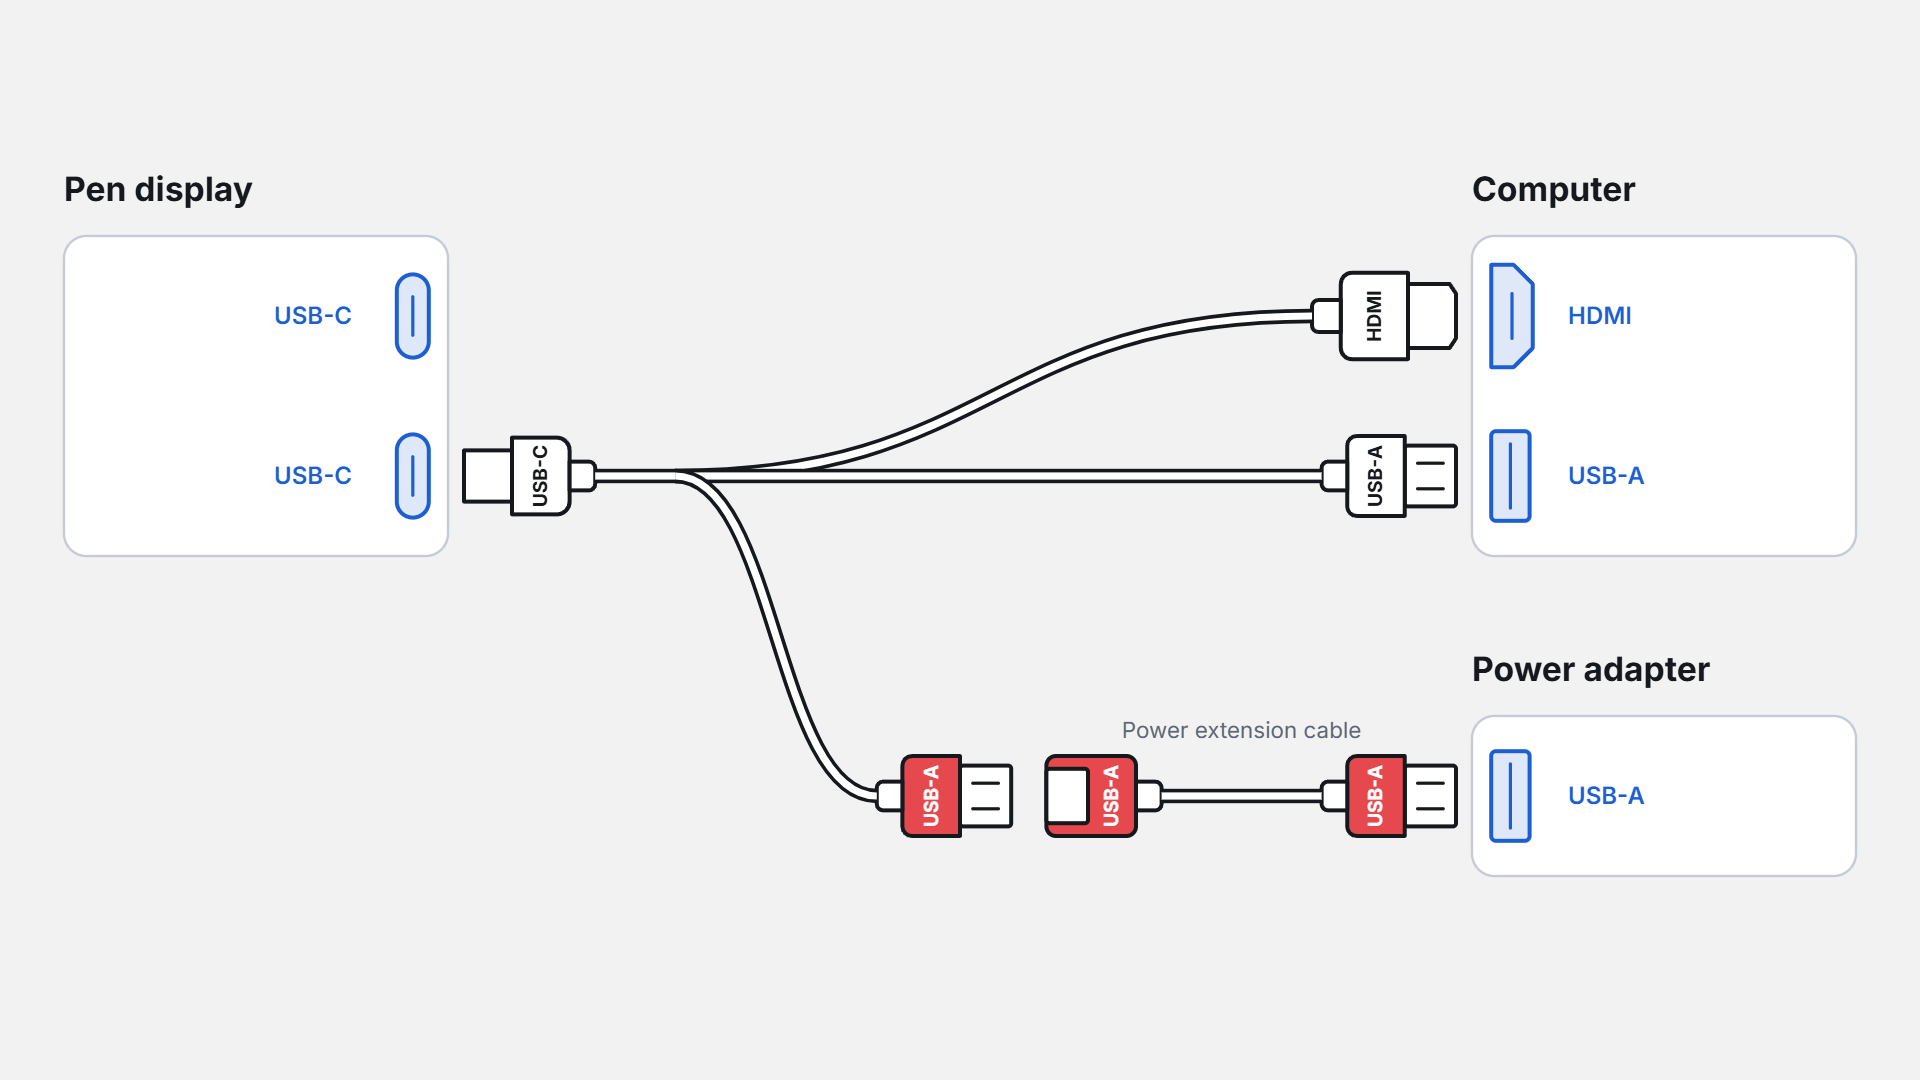
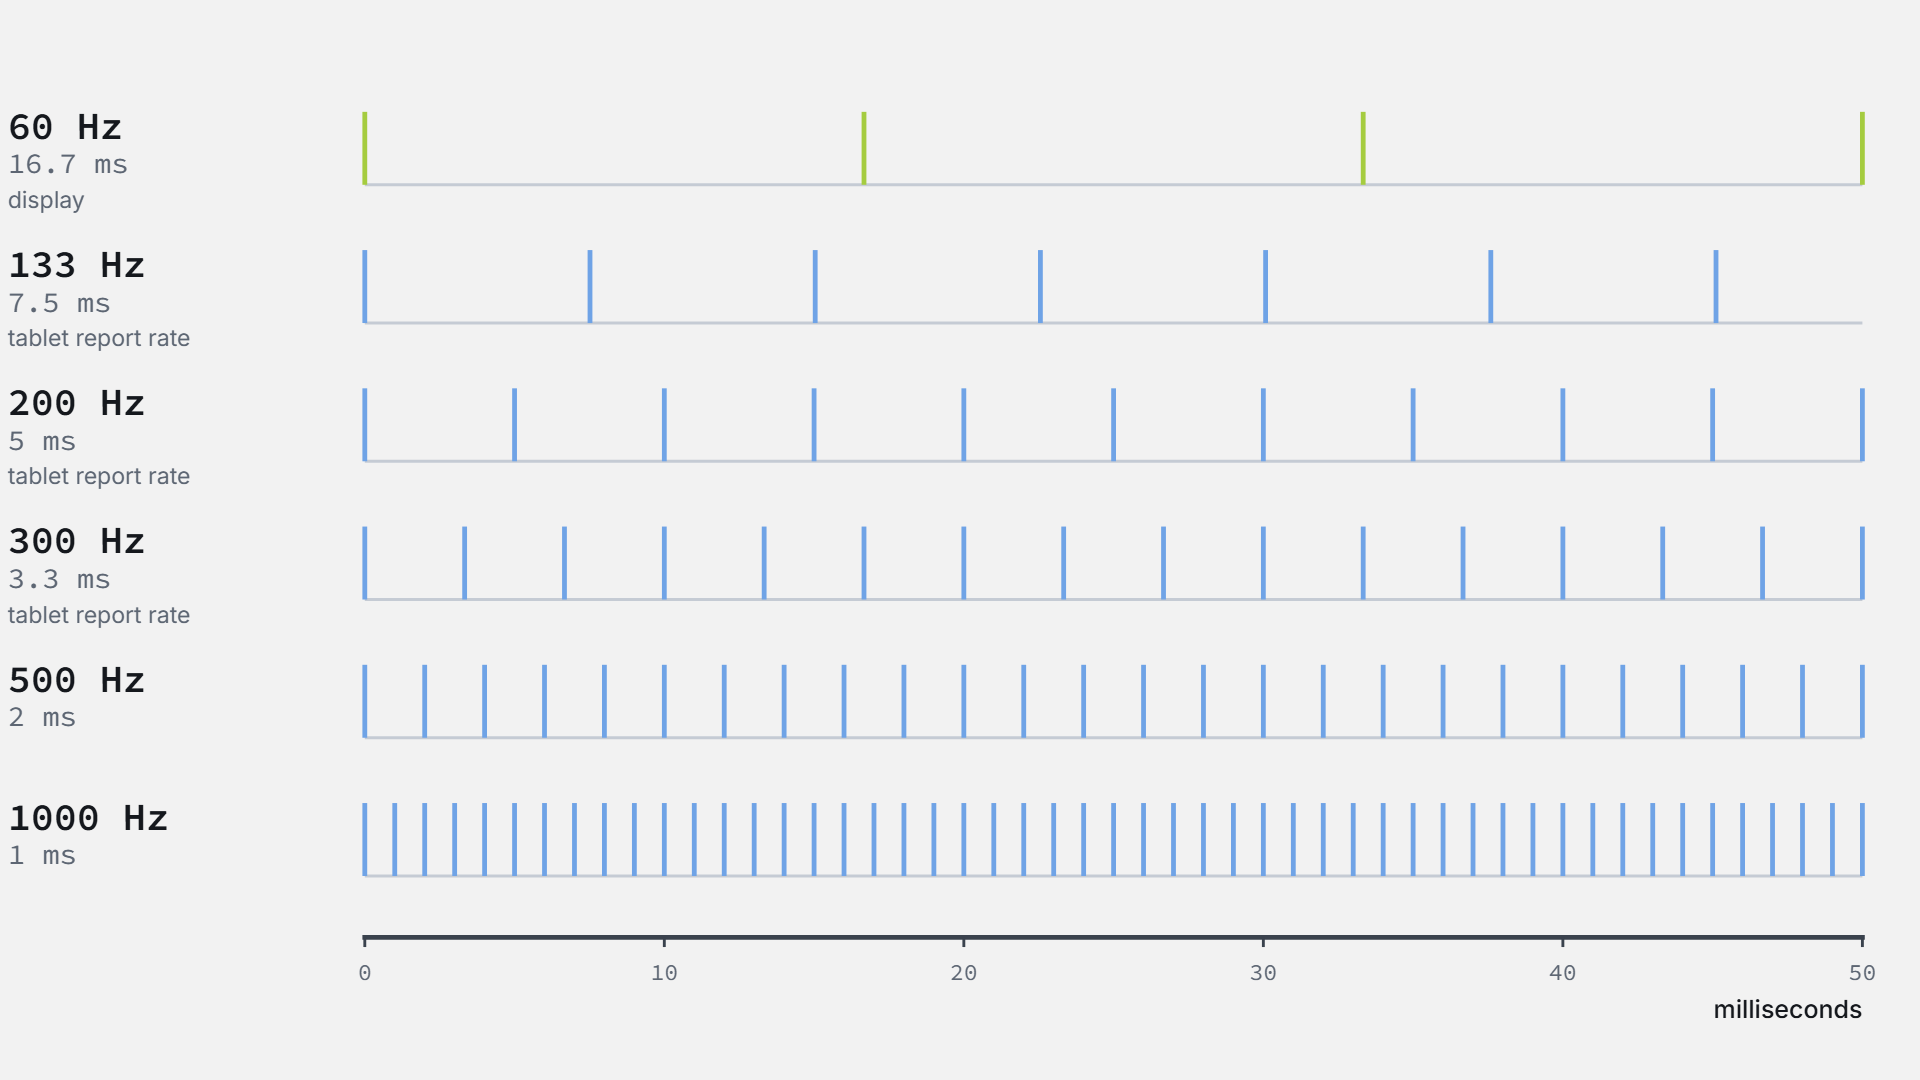
GITBOOK-6180: No subject

diff --git a/guides/advanced/ultra-high-report-rates.md b/guides/advanced/ultra-high-report-rates.md
@@ -6,6 +6,10 @@ As of November 2026, the highest pen report rate seen in drawing tablets is 300 
 
 <figure><img src="../../.gitbook/assets/image (73).png" alt=""><figcaption></figcaption></figure>
 
+The diagram below will help you visualize and compare these rates.
+
+<figure><img src="../../.gitbook/assets/image (75).png" alt=""><figcaption></figcaption></figure>
+
 ### The motivation for higher report rates
 
 For artists the motivation is simple: strokes should look less segmented especially as you draw a very fast stroke and in theory this extra data should be useful in making the strokes look better especially as a stroke makes fast transitions in pressure for example at the beginning or end of a stroke.
@@ -14,7 +18,7 @@ For example here's an artifact called shoelacing that appears as a stroke ends -
 
 <figure><img src="../../.gitbook/assets/image (74).png" alt="" width="188"><figcaption></figcaption></figure>
 
-Gamers who use mice have been used to mice that have a report rate on the order of 500, 1000, or 4000 thousand Hertz. So for those players that like to use a drawing tablet to play a game like **osu!**, you can understand there's a natural motivation to have their drawing tablets perform as well as a mouse.
+Gamers who use mice have been used to mice that have a report rate on the order of 500, 1000, 4000, or 8000 Hertz. So for those players that like to use a drawing tablet to play a game like **osu!**, you can understand there's a natural motivation to have their drawing tablets perform as well as a mouse.
 
 ### Are higher report rates possible?
 
